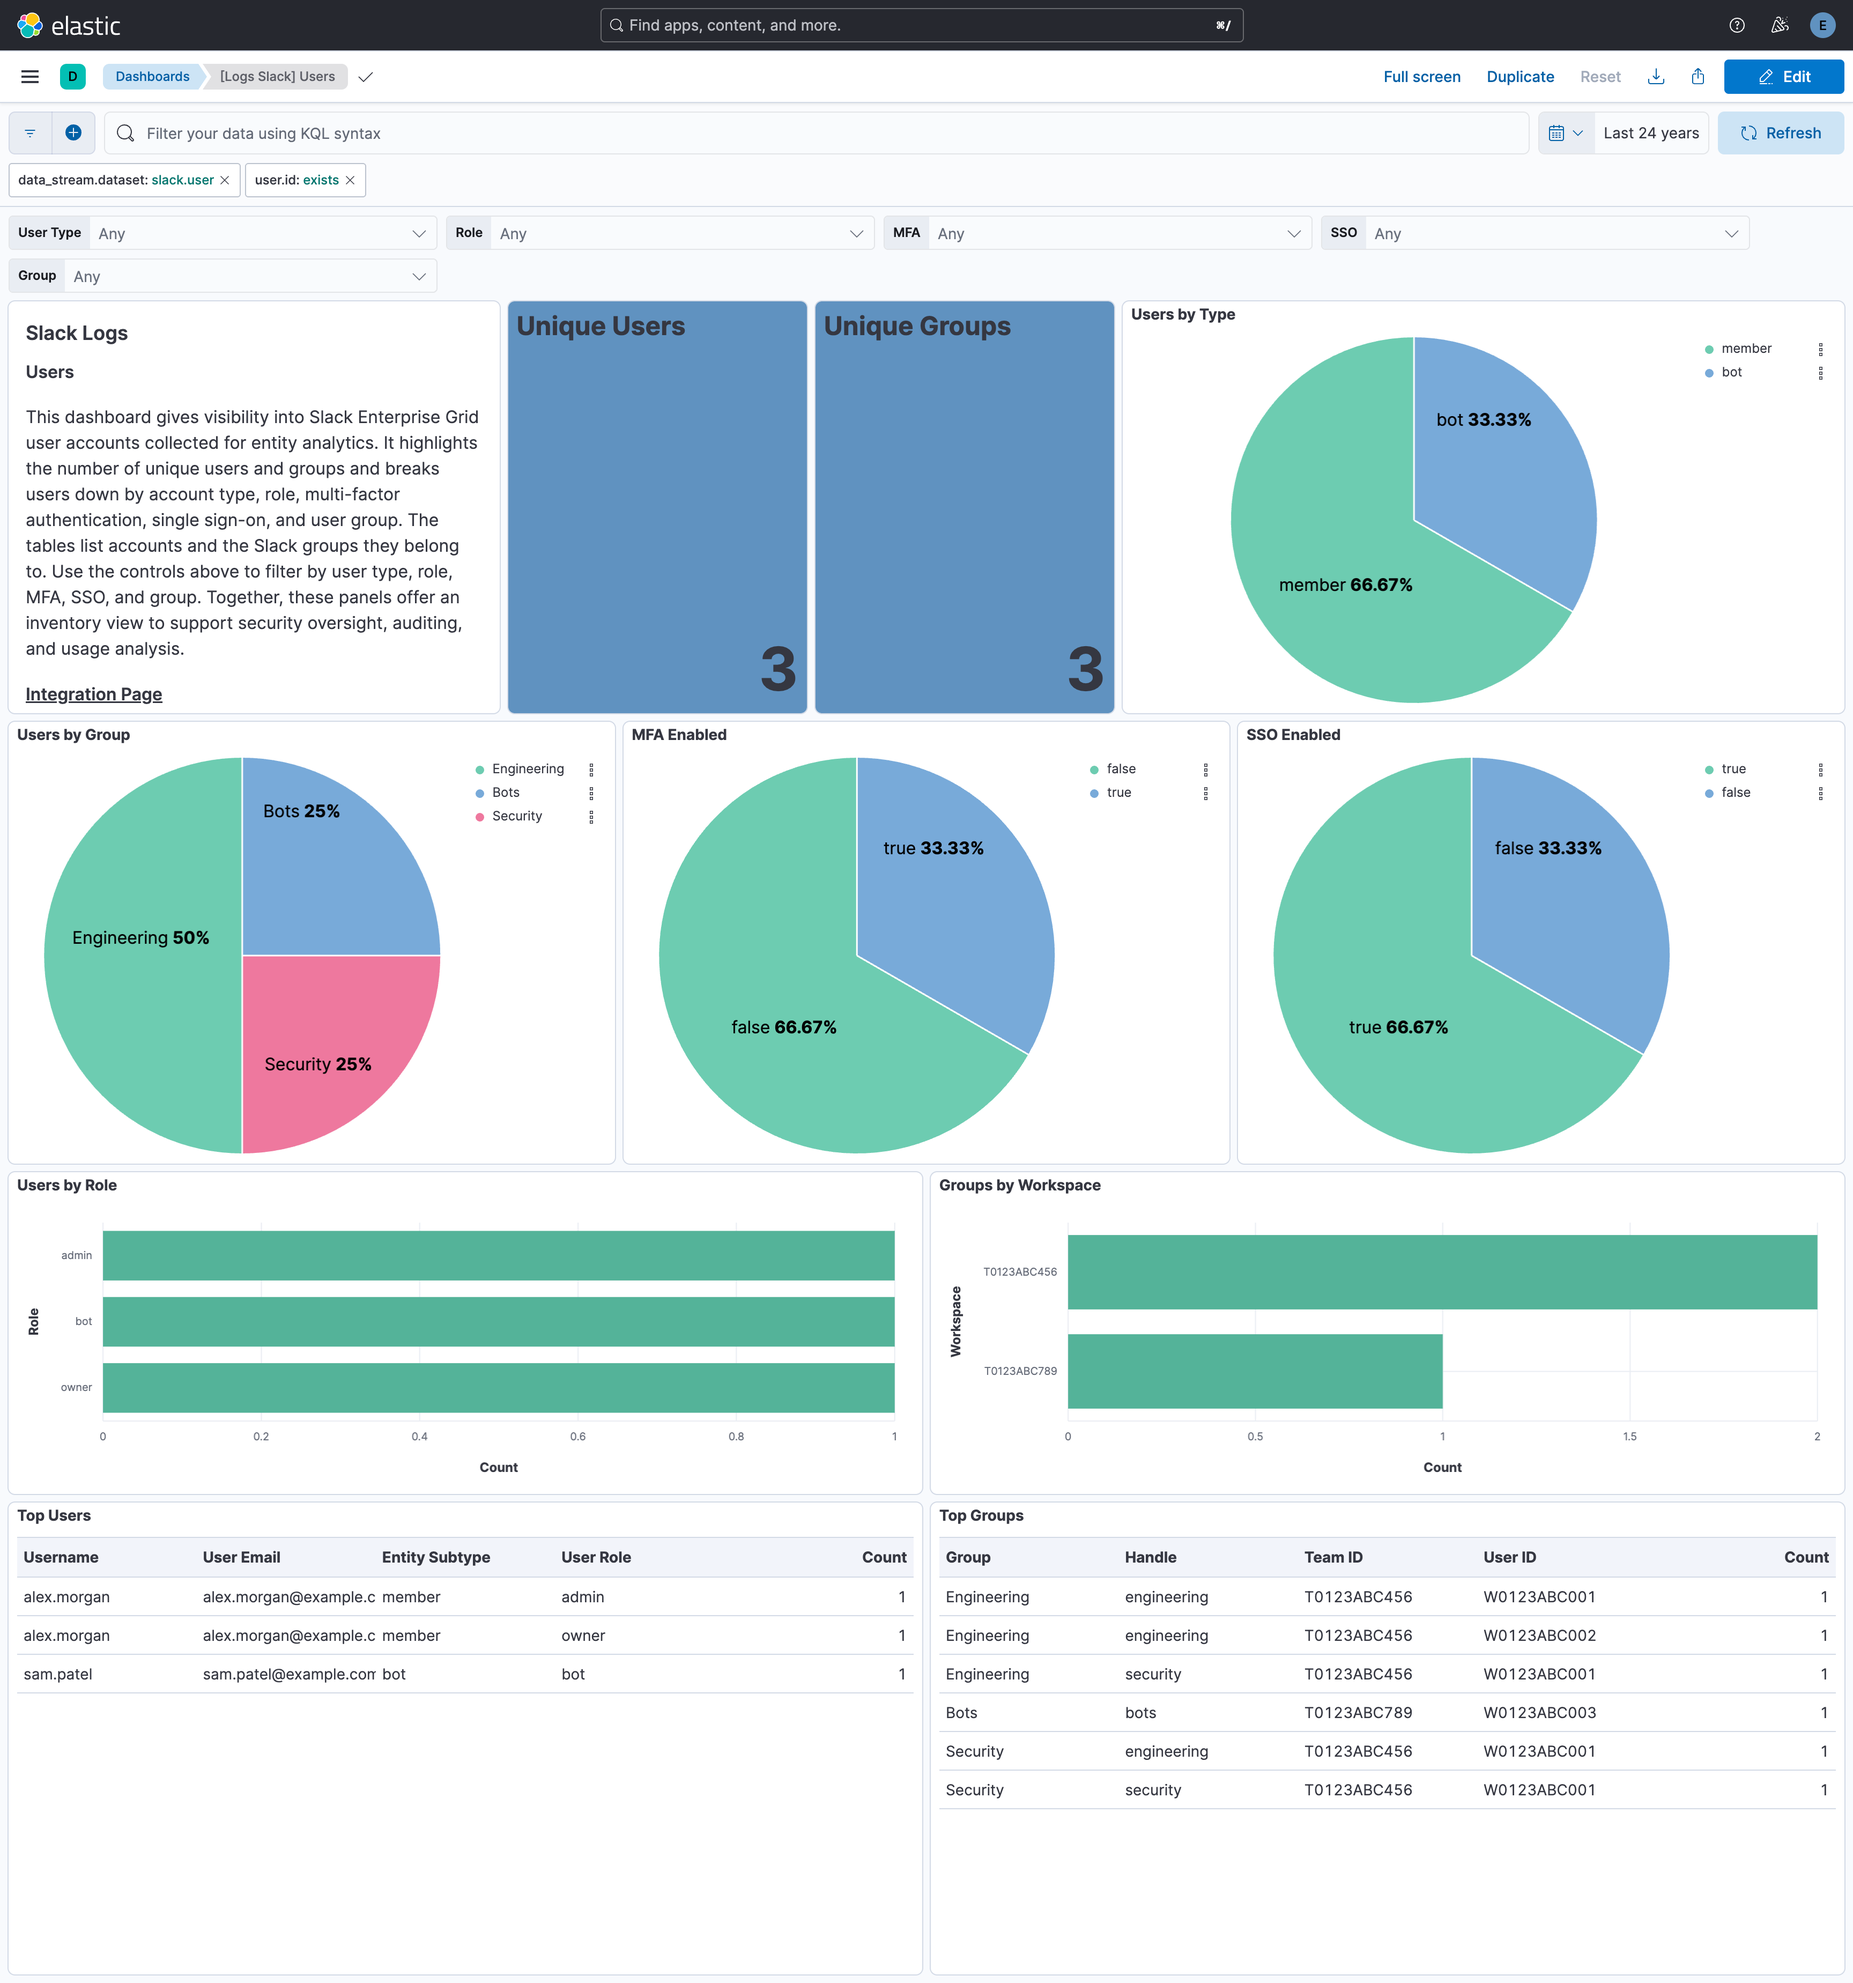
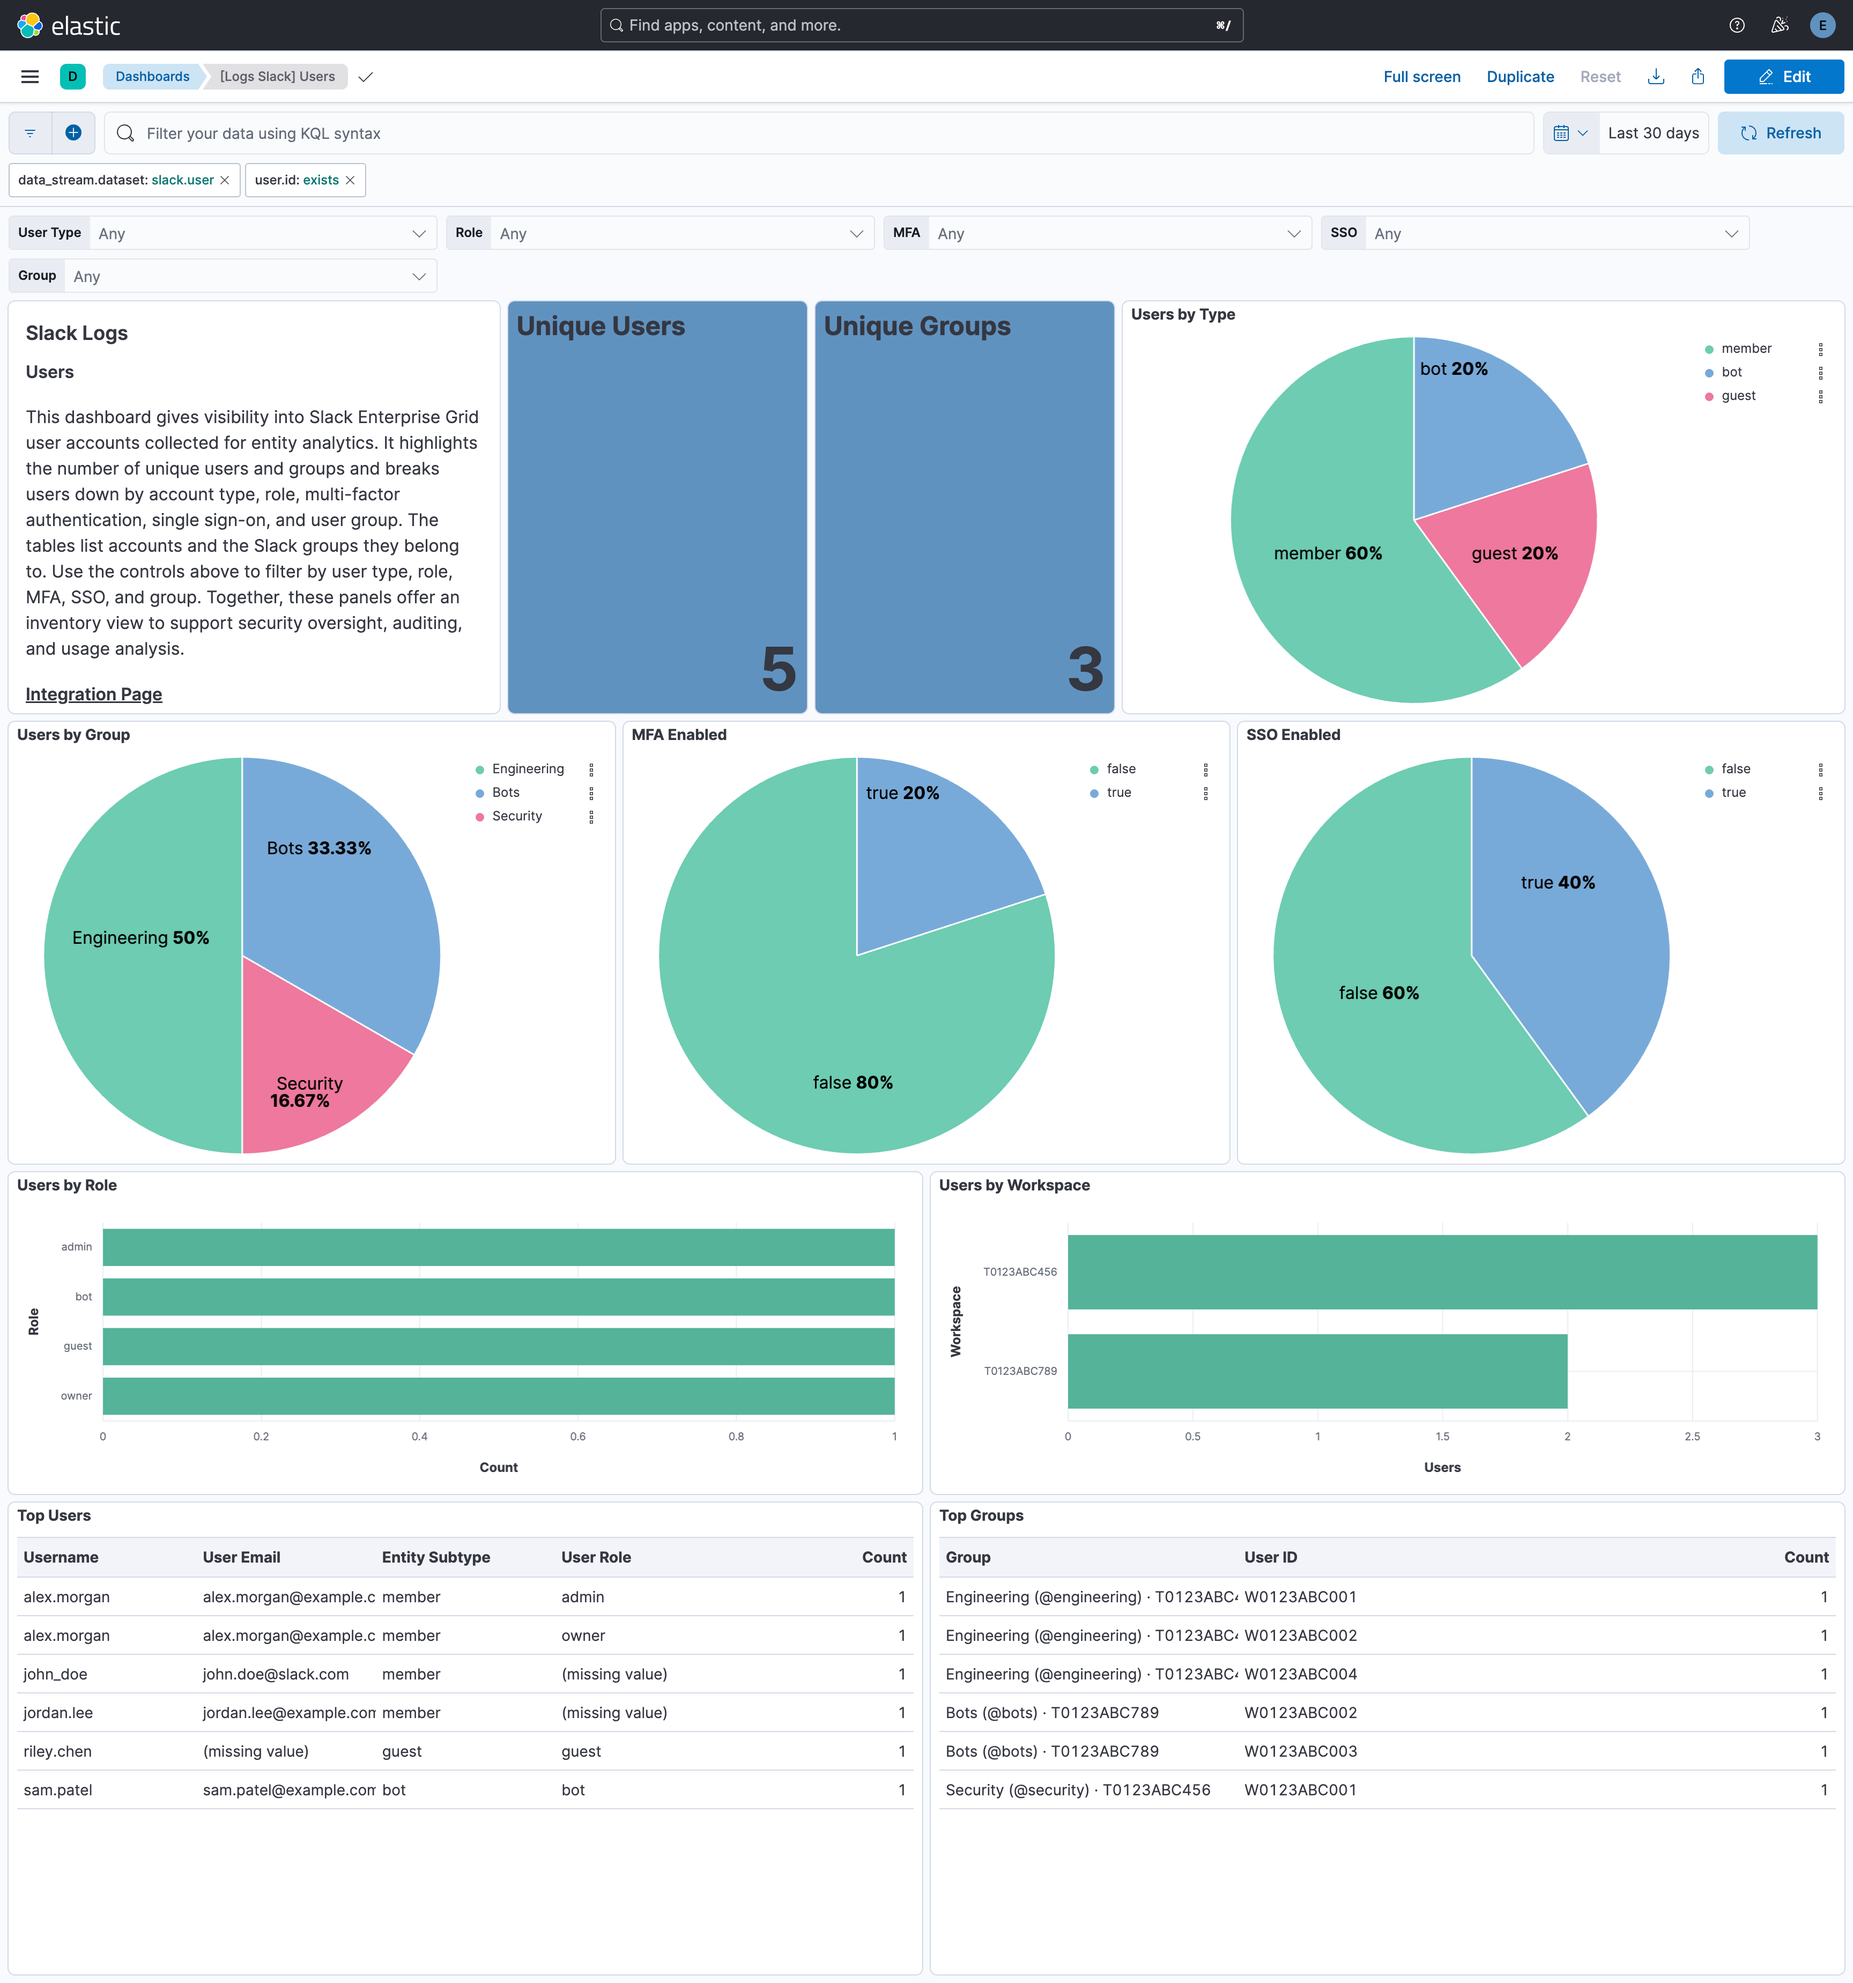
Reoslved comments from bot.

diff --git a/packages/slack/docs/README.md b/packages/slack/docs/README.md
@@ -266,6 +266,7 @@ The token must be an org-level user token (`xoxp-`) with the `admin.users:read` 
 | slack.user.groups.id | Slack user group ID. | keyword |
 | slack.user.groups.is_external | Whether the user group is external. | boolean |
 | slack.user.groups.is_usergroup | Whether this object is a Slack user group. | boolean |
+| slack.user.groups.label | Combined group name, handle, and workspace ID, used so dashboards keep those attributes paired. | keyword |
 | slack.user.groups.name | User group name. | keyword |
 | slack.user.groups.prefs.channels | Default public channel IDs for the user group. | keyword |
 | slack.user.groups.prefs.groups | Default private channel IDs for the user group. | keyword |
@@ -358,19 +359,17 @@ An example event for `user` looks as following:
     "slack": {
         "user": {
             "date_created": "2019-08-27T16:08:10.000Z",
-            "deactivated_ts": 0,
-            "expiration_ts": 0,
             "groups": [
                 {
                     "created_by": "W0123ABC001",
-                    "date_create": 1446598059,
-                    "date_delete": 0,
-                    "date_update": 1446670362,
+                    "date_create": "2015-11-04T00:47:39Z",
+                    "date_update": "2015-11-04T20:52:42Z",
                     "description": "Engineering team for the Elastic workspace.",
                     "handle": "engineering",
                     "id": "S0614TZR7",
                     "is_external": false,
                     "is_usergroup": true,
+                    "label": "Engineering (@engineering) · T0123ABC456",
                     "name": "Engineering",
                     "team_id": "T0123ABC456",
                     "updated_by": "W0123ABC001",
@@ -379,14 +378,14 @@ An example event for `user` looks as following:
                 {
                     "auto_type": "admin",
                     "created_by": "USLACKBOT",
-                    "date_create": 1446678371,
-                    "date_delete": 0,
-                    "date_update": 1446678371,
+                    "date_create": "2015-11-04T23:06:11Z",
+                    "date_update": "2015-11-04T23:06:11Z",
                     "description": "Security reviewers.",
                     "handle": "security",
                     "id": "S06158AV7",
                     "is_external": false,
                     "is_usergroup": true,
+                    "label": "Security (@security) · T0123ABC456",
                     "name": "Security",
                     "team_id": "T0123ABC456",
                     "updated_by": "USLACKBOT",
